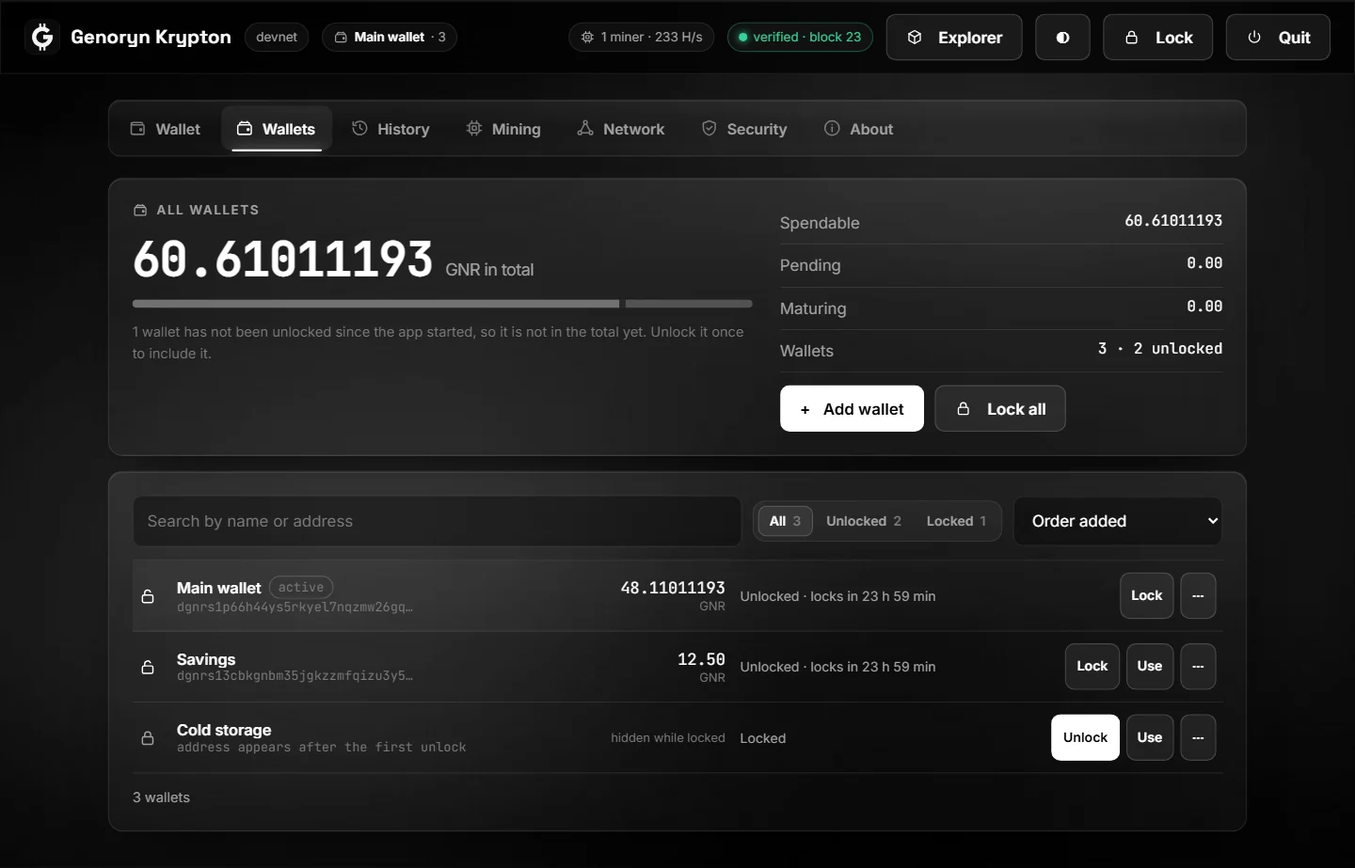
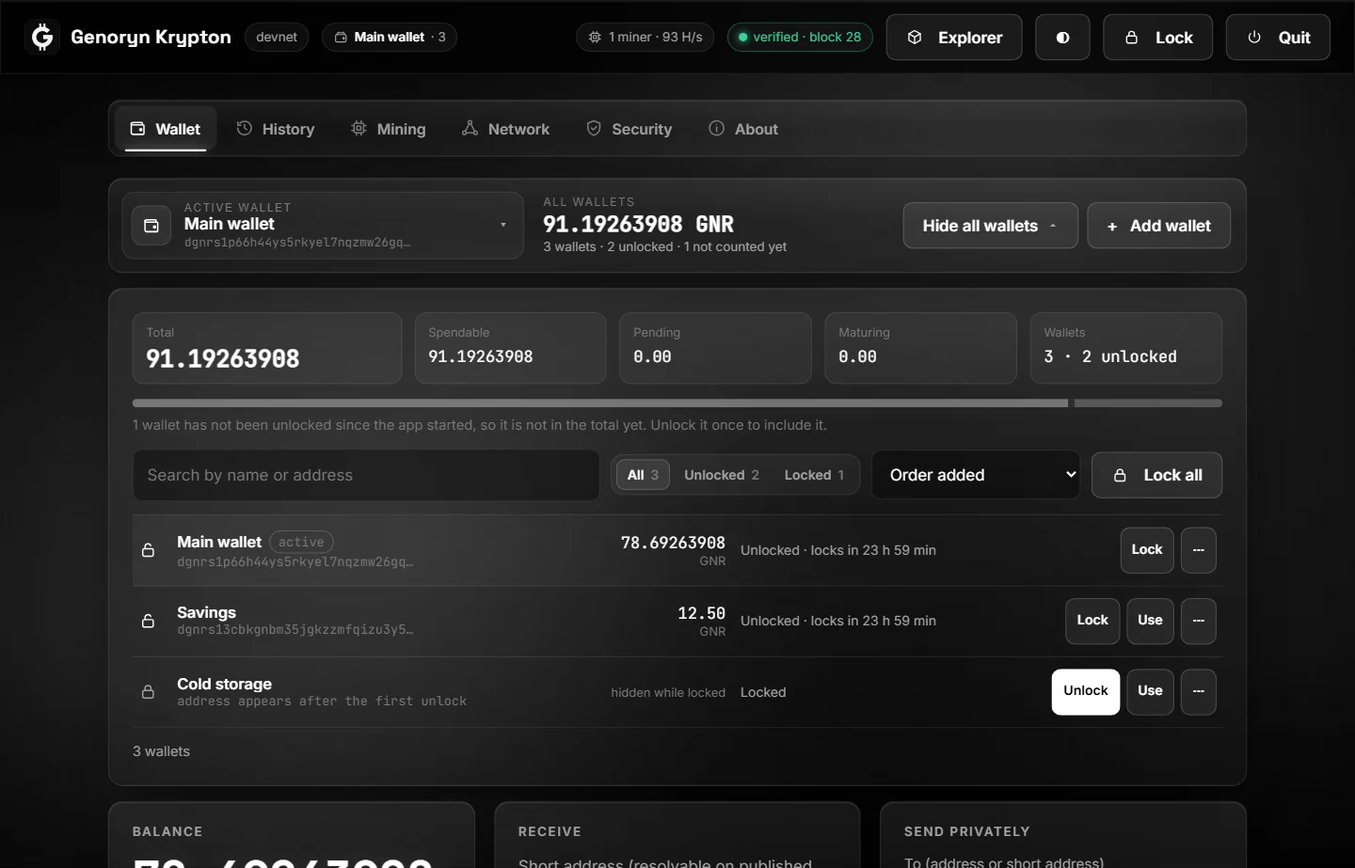
Genoryn Krypton 1.0.6: one Wallet tab: wallet selector, all wallets in one list

diff --git a/apps/krypton-wallet/src/ui.html b/apps/krypton-wallet/src/ui.html
@@ -103,7 +103,31 @@ td.amt{font-family:var(--font-mono);font-variant-numeric:tabular-nums}.amt-in{co
 .pager{display:flex;flex-wrap:wrap;align-items:center;justify-content:space-between;gap:10px;margin-top:12px;color:var(--text-secondary);font-size:13px}
 .pager .pg{display:flex;gap:4px;flex-wrap:wrap}.pager button{min-width:34px;height:34px;padding:0 9px;border-radius:9px;border:1px solid var(--line);background:var(--bg-inset);color:var(--text-secondary);font:600 13px var(--font-mono);cursor:pointer}
 .pager button.on{background:var(--text-primary);color:var(--bg-solid);border-color:var(--text-primary)}.pager button:disabled{opacity:.35;cursor:default}.pager .gap{padding:0 4px;align-self:center}
-.wtop{display:grid;grid-template-columns:1.4fr 1fr;gap:26px;align-items:start}
+.wbar{display:flex;align-items:center;gap:18px;padding:12px 14px 12px 12px;margin-bottom:14px;flex-wrap:wrap}
+.wsel{display:flex;align-items:center;gap:12px;min-width:0;flex:0 1 380px;padding:8px 14px 8px 8px;border-radius:12px;border:1px solid var(--line);background:var(--bg-inset);color:var(--text-primary);cursor:pointer;text-align:left;transition:border-color .2s,background .2s}
+.wsel:hover,.wsel[aria-expanded="true"]{border-color:var(--line-strong);background:var(--bg-raised)}
+.wsel-ic{display:inline-flex;align-items:center;justify-content:center;width:38px;height:38px;border-radius:10px;background:var(--bg-raised);border:1px solid var(--line);flex:none}
+.wsel-t{display:flex;flex-direction:column;min-width:0;flex:1}.wsel-t em{font-style:normal;font-size:11px;letter-spacing:1.2px;text-transform:uppercase;color:var(--text-tertiary)}
+.wsel-t b{font:600 15.5px var(--font-sans);overflow:hidden;text-overflow:ellipsis;white-space:nowrap}.wsel-t span{font-size:11.5px;color:var(--text-tertiary);overflow:hidden;text-overflow:ellipsis;white-space:nowrap}
+.caret{color:var(--text-secondary);font-size:12px;transition:transform .2s}[aria-expanded="true"] .caret{transform:rotate(180deg)}
+.wbar-total{display:flex;flex-direction:column;min-width:0;flex:1}.wbar-total em{font-style:normal;font-size:11px;letter-spacing:1.2px;text-transform:uppercase;color:var(--text-tertiary)}
+.wbar-total b{font:600 20px/1.2 var(--font-mono);font-variant-numeric:tabular-nums;white-space:nowrap;overflow:hidden;text-overflow:ellipsis}.wbar-total span{font-size:12px;color:var(--text-secondary)}
+.wbar-acts{display:flex;gap:8px;flex-wrap:wrap}
+.allw{margin-bottom:14px}.allw-sum{display:grid;grid-template-columns:1.4fr repeat(4,minmax(0,1fr));gap:12px}
+.allw-sum>div{display:flex;flex-direction:column;gap:3px;padding:10px 12px;border-radius:11px;background:var(--bg-inset);border:1px solid var(--line);min-width:0}
+.allw-sum em{font-style:normal;font-size:11.5px;color:var(--text-tertiary)}.allw-sum b{font:500 15px var(--font-mono);font-variant-numeric:tabular-nums;white-space:nowrap;overflow:hidden;text-overflow:ellipsis}.allw-sum>div:first-child b{font:700 22px/1.15 var(--font-mono)}
+.addp{padding:16px;margin:12px 0;border-radius:12px;border:1px solid var(--line-strong);background:var(--bg-inset)}
+.allw .wrows{max-height:min(62vh,640px);overflow-y:auto;overscroll-behavior:contain;scrollbar-width:thin}
+.switcher{position:fixed;z-index:30;width:min(380px,calc(100vw - 24px));max-height:min(72vh,620px);display:flex;flex-direction:column;padding:12px;border-radius:14px;border-color:var(--line-strong);background:color-mix(in srgb,var(--bg-solid) 96%,transparent);backdrop-filter:blur(18px);box-shadow:0 24px 60px rgba(0,0,0,.45)}
+.sw-head{display:flex;justify-content:space-between;align-items:baseline;padding:2px 4px 8px}.sw-head b{font:600 13px var(--font-sans);letter-spacing:1.2px;text-transform:uppercase;color:var(--text-secondary)}.sw-head span{font:500 13px var(--font-mono)}
+.switcher input{margin:0 0 8px}
+.sw-list{overflow-y:auto;flex:1;min-height:0;display:flex;flex-direction:column;gap:2px;scrollbar-width:thin}
+.sw-it{display:grid;grid-template-columns:18px minmax(0,1fr) auto;align-items:center;gap:10px;padding:9px 10px;border-radius:10px;border:0;background:none;color:var(--text-primary);text-align:left;cursor:pointer;width:100%}
+.sw-it:hover,.sw-it:focus-visible{background:var(--bg-inset);outline:none}.sw-it.on{background:var(--bg-raised);box-shadow:inset 0 0 0 1px var(--line-strong)}
+.sw-it .ic{width:15px;height:15px;color:var(--text-secondary)}.sw-it.on .ic{color:var(--text-primary)}
+.swn{min-width:0}.swn b{display:block;font:600 14px var(--font-sans);color:var(--text-primary);overflow:hidden;text-overflow:ellipsis;white-space:nowrap}.swn small{display:block;font:400 11.5px var(--font-mono);color:var(--text-tertiary);overflow:hidden;text-overflow:ellipsis;white-space:nowrap}
+.sw-it i{font:500 13px var(--font-mono);font-style:normal;white-space:nowrap;text-align:right}.sw-it i small{display:block;font:400 11px var(--font-sans);color:var(--text-tertiary)}
+.sw-foot{display:flex;gap:8px;padding-top:10px;margin-top:6px;border-top:1px solid var(--line)}.sw-foot .btn{flex:1;padding:8px 10px;font-size:13px}
 .add-grid{display:grid;grid-template-columns:1fr 1fr;gap:0 16px}
 .wrows{display:flex;flex-direction:column;border-top:1px solid var(--line)}
 .wrow{display:grid;grid-template-columns:22px minmax(0,1.5fr) 150px minmax(0,1.1fr) 176px;align-items:center;gap:14px;padding:11px 6px;border-bottom:1px solid var(--line);transition:background .15s}
@@ -130,6 +154,7 @@ td.amt{font-family:var(--font-mono);font-variant-numeric:tabular-nums}.amt-in{co
 .about-motto{margin:14px 0 0;font:700 13px var(--font-display);letter-spacing:2.2px;color:var(--text-primary)}
 .about-facts{display:grid;grid-template-columns:repeat(4,minmax(0,1fr));gap:12px;margin-bottom:14px}
 @media (max-width:1380px){h1 small{display:none}}
+@media (max-width:900px){.allw-sum{grid-template-columns:1fr 1fr}.allw-sum>div:first-child{grid-column:1/-1}.wsel{flex:1 1 100%}.wbar-acts{width:100%}.wbar-acts .btn{flex:1}}
 @media (max-width:900px){.wtop{grid-template-columns:1fr}.hsums,.about-facts{grid-template-columns:1fr 1fr}.wrow{grid-template-columns:22px minmax(0,1fr) auto;grid-template-areas:"i n b" "s s s" "a a a"}.wrow>.ic{grid-area:i}.wn{grid-area:n}.wb{grid-area:b}.ws{grid-area:s}.wa{grid-area:a;justify-content:flex-start}}
 @media (max-width:640px){.add-grid{grid-template-columns:1fr}.about-hero{flex-direction:column;align-items:flex-start;padding:24px}.about-hero img{width:84px;height:84px}.toolbar input[type=search]{min-width:100%}}
 .wsplit{display:flex;gap:6px;height:8px;border-radius:99px;overflow:hidden;margin:14px 0 4px;background:var(--bg-inset)}.wsplit i{display:block;height:100%;background:var(--text-secondary);opacity:.35;min-width:3px}.wsplit i:nth-child(odd){opacity:.6}
@@ -169,7 +194,7 @@ pre.mono{white-space:pre-wrap;margin:10px 0 0}
 <header class="float">
   <div class="brand"><img src="/assets/genoryn-mark-dark.svg" alt="Genoryn"><h1>Genoryn Krypton <small>wallet</small></h1></div>
   <span id="net" class="badge"></span>
-  <button id="wChip" class="badge chip-btn hidden" onclick="chipClick()" title="Manage wallets"><svg class="ic" aria-hidden="true"><use href="#i-wallets"/></svg><b id="wChipName"></b><span id="wChipCount"></span></button>
+  <button id="wChip" class="badge chip-btn hidden" aria-haspopup="dialog" onclick="chipClick()" title="Manage wallets"><svg class="ic" aria-hidden="true"><use href="#i-wallets"/></svg><b id="wChipName"></b><span id="wChipCount"></span></button>
   <span class="spacer"></span>
   <span id="netBadge" class="badge net-badge hidden" title="Estimated miners (payout addresses active in ~6 h) · network hashrate"><svg class="ic" aria-hidden="true"><use href="#i-mining"/></svg><span id="netBadgeText"></span></span>
   <span id="sync" class="badge">connecting…</span>
@@ -223,7 +248,6 @@ pre.mono{white-space:pre-wrap;margin:10px 0 0}
   <section id="app" class="hidden">
     <nav class="tabs glass" aria-label="Wallet sections">
       <button class="rail on" data-tab="wallet"><svg class="ic" aria-hidden="true"><use href="#i-wallet"/></svg><span>Wallet</span></button>
-      <button class="rail" data-tab="wallets"><svg class="ic" aria-hidden="true"><use href="#i-wallets"/></svg><span>Wallets</span></button>
       <button class="rail" data-tab="history"><svg class="ic" aria-hidden="true"><use href="#i-history"/></svg><span>History</span></button>
       <button class="rail" data-tab="mining"><svg class="ic" aria-hidden="true"><use href="#i-mining"/></svg><span>Mining</span></button>
       <button class="rail" data-tab="network"><svg class="ic" aria-hidden="true"><use href="#i-network"/></svg><span>Network</span></button>
@@ -231,6 +255,50 @@ pre.mono{white-space:pre-wrap;margin:10px 0 0}
       <button class="rail" data-tab="about"><svg class="ic" aria-hidden="true"><use href="#i-about"/></svg><span>About</span></button>
     </nav>
     <div id="tab-wallet">
+    <div class="glass wbar">
+      <button class="wsel" id="wSel" type="button" onclick="openSwitcher(this)" aria-haspopup="dialog" title="Switch wallet">
+        <span class="wsel-ic"><svg class="ic" aria-hidden="true"><use href="#i-wallet"/></svg></span>
+        <span class="wsel-t"><em>Active wallet</em><b id="wSelName">-</b><span id="wSelAddr" class="mono"></span></span>
+        <span class="caret" aria-hidden="true">▾</span>
+      </button>
+      <div class="wbar-total"><em>All wallets</em><b id="wbTotal">-</b><span id="wbCount"></span></div>
+      <div class="wbar-acts">
+        <button class="btn" id="wAllBtn" type="button" onclick="toggleAll()" aria-expanded="false">Show all wallets <span class="caret" aria-hidden="true">▾</span></button>
+        <button class="btn" type="button" onclick="toggleAll(true);toggleAdd(true)"><span aria-hidden="true">+</span>&nbsp;Add wallet</button>
+      </div>
+    </div>
+    <section id="allWallets" class="glass card allw hidden" aria-label="All wallets">
+      <div class="allw-sum">
+        <div><em>Total</em><b id="tTotal">0</b></div>
+        <div><em>Spendable</em><b id="tSpend">0</b></div>
+        <div><em>Pending</em><b id="tPend">0</b></div>
+        <div><em>Maturing</em><b id="tImm">0</b></div>
+        <div><em>Wallets</em><b id="tCount">0</b></div>
+      </div>
+      <div id="tSplit" class="wsplit" aria-hidden="true"></div>
+      <p id="tNote" class="hero-note" style="margin-top:6px"></p>
+      <div id="addPanel" class="addp hidden">
+        <h2>Add a wallet</h2>
+        <p class="muted">Each wallet has its own 24 words and its own password. Add as many as you like; the total above adds them all up.</p>
+        <div class="add-grid">
+          <div><label for="addName">Name</label><input id="addName" maxlength="40" placeholder="e.g. Savings"></div>
+          <div><label for="addPass">Password for this wallet (12+ characters)</label><input id="addPass" type="password" autocomplete="new-password"></div>
+        </div>
+        <div id="addRestore" class="hidden">
+          <label for="addWords">Recovery phrase: 24 words with their numbers (older 24-word phrases work too)</label><textarea id="addWords"></textarea>
+          <label for="addBirthday">Scan from block (0 = full history)</label><input id="addBirthday" type="number" value="0" min="0">
+        </div>
+        <div class="row-flex"><button class="btn btn-primary" id="addBtn" onclick="addWallet()">Create new wallet</button><button class="btn" id="addMode" onclick="toggleRestore()">Restore from recovery phrase</button><button class="btn" onclick="toggleAdd(false)">Cancel</button></div>
+      </div>
+      <div class="toolbar">
+        <input id="wQ" type="search" placeholder="Search by name or address" aria-label="Search wallets">
+        <div class="seg" id="wFilter" role="group" aria-label="Filter"><button type="button" data-f="all" class="on">All <em id="wnAll"></em></button><button type="button" data-f="open">Unlocked <em id="wnOpen"></em></button><button type="button" data-f="locked">Locked <em id="wnLocked"></em></button></div>
+        <select id="wSort" aria-label="Sort"><option value="added">Order added</option><option value="name">Name A–Z</option><option value="bal">Balance, highest first</option><option value="open">Unlocked first</option></select>
+        <button class="btn" type="button" onclick="lockAll()"><svg class="ic" aria-hidden="true"><use href="#i-lock"/></svg>Lock all</button>
+      </div>
+      <div class="wrows" id="wList" role="list"></div>
+      <div class="pager" id="wPager"></div>
+    </section>
     <div class="grid">
       <div class="glass card">
         <h2>Balance</h2>
@@ -286,45 +354,6 @@ pre.mono{white-space:pre-wrap;margin:10px 0 0}
         <p class="hero-note" style="margin-top:10px">Blocks you found are marked. Transfers stay shielded: only block sizes, shares and transaction counts are public.</p>
       </div>
     </section>
-    </div>
-    <div id="tab-wallets" class="hidden">
-      <div class="glass card wtop">
-        <div class="wtop-main">
-          <h2><svg class="ic" aria-hidden="true"><use href="#i-wallets"/></svg>All wallets</h2>
-          <div class="big"><span id="tTotal" class="num">0</span> <small>GNR in total</small></div>
-          <div id="tSplit" class="wsplit" aria-hidden="true"></div>
-          <p id="tNote" class="hero-note"></p>
-        </div>
-        <div class="wtop-side">
-          <div class="row">Spendable<b id="tSpend">0</b></div>
-          <div class="row">Pending<b id="tPend">0</b></div>
-          <div class="row">Maturing<b id="tImm">0</b></div>
-          <div class="row">Wallets<b id="tCount">0</b></div>
-          <div class="row-flex" style="margin-top:12px"><button class="btn btn-primary" onclick="toggleAdd()"><span aria-hidden="true">+</span>&nbsp;Add wallet</button><button class="btn" onclick="lockAll()"><svg class="ic" aria-hidden="true"><use href="#i-lock"/></svg>Lock all</button></div>
-        </div>
-      </div>
-      <div id="addPanel" class="glass card hidden" style="margin-top:14px">
-        <h2>Add a wallet</h2>
-        <p class="muted">Each wallet has its own 24 words and its own password. Add as many as you like; the total above adds them all up.</p>
-        <div class="add-grid">
-          <div><label for="addName">Name</label><input id="addName" maxlength="40" placeholder="e.g. Savings"></div>
-          <div><label for="addPass">Password for this wallet (12+ characters)</label><input id="addPass" type="password" autocomplete="new-password"></div>
-        </div>
-        <div id="addRestore" class="hidden">
-          <label for="addWords">Recovery phrase: 24 words with their numbers (older 24-word phrases work too)</label><textarea id="addWords"></textarea>
-          <label for="addBirthday">Scan from block (0 = full history)</label><input id="addBirthday" type="number" value="0" min="0">
-        </div>
-        <div class="row-flex"><button class="btn btn-primary" id="addBtn" onclick="addWallet()">Create new wallet</button><button class="btn" id="addMode" onclick="toggleRestore()">Restore from recovery phrase</button><button class="btn" onclick="toggleAdd(false)">Cancel</button></div>
-      </div>
-      <div class="glass card" style="margin-top:14px">
-        <div class="toolbar">
-          <input id="wQ" type="search" placeholder="Search by name or address" aria-label="Search wallets">
-          <div class="seg" id="wFilter" role="group" aria-label="Filter"><button type="button" data-f="all" class="on">All <em id="wnAll"></em></button><button type="button" data-f="open">Unlocked <em id="wnOpen"></em></button><button type="button" data-f="locked">Locked <em id="wnLocked"></em></button></div>
-          <select id="wSort" aria-label="Sort"><option value="added">Order added</option><option value="name">Name A–Z</option><option value="bal">Balance, highest first</option><option value="open">Unlocked first</option></select>
-        </div>
-        <div class="wrows" id="wList" role="list"></div>
-        <div class="pager" id="wPager"></div>
-      </div>
     </div>
     <div id="tab-history" class="hidden">
       <div class="hsums" id="hSums">
@@ -510,6 +539,12 @@ pre.mono{white-space:pre-wrap;margin:10px 0 0}
     </div>
   </section>
 </main>
+<div id="switcher" class="switcher glass float hidden" role="dialog" aria-label="Switch wallet">
+  <div class="sw-head"><b>Wallets</b><span id="swTotal"></span></div>
+  <input id="swQ" type="search" placeholder="Search wallets" aria-label="Search wallets">
+  <div id="swList" class="sw-list" role="listbox"></div>
+  <div class="sw-foot"><button class="btn" type="button" onclick="closeSwitcher();toggleAll(true)">Show all wallets</button><button class="btn" type="button" onclick="closeSwitcher();toggleAll(true);toggleAdd(true)"><span aria-hidden="true">+</span>&nbsp;Add</button></div>
+</div>
 <div id="toast" class="toast float hidden" role="status" aria-live="polite"></div>
 <script src="/assets/fx.js" data-base="/assets/"></script>
 <script src="/assets/charts.js"></script>
@@ -534,9 +569,9 @@ async function afterAdd(r, name, activate){
   await refresh(); loadWallets();
 }
 function startAdding(){ adding=true; const n=(S.wallet_count||0)+1; $('newName').value='Wallet '+n; refresh(); }
-function chipClick(){ if(S.unlocked) goTab('wallets'); else { show('uPick'); $('uSel').focus(); } }
+function chipClick(){ if(S.unlocked) openSwitcher($('wChip')); else { show('uPick'); $('uSel').focus(); } }
 function dur(s){ if(s==null) return ''; const h=Math.floor(s/3600), m=Math.floor(s%3600/60); return h?h+' h '+m+' min':m?m+' min':'less than a minute'; }
-async function loadWallets(){ try{ W=await api('/api/wallets'); renderWallets(); }catch(e){} }
+async function loadWallets(){ try{ W=await api('/api/wallets'); renderBar(); if(!$('allWallets').classList.contains('hidden')) renderWallets(); }catch(e){} }
 function renderWallets(){
   if(!W) return;
   const t=W.total||{}; $('tTotal').textContent=gnr(t.total); $('tSpend').textContent=gnr(t.spendable); $('tPend').textContent=gnr(t.pending); $('tImm').textContent=gnr(t.immature);
@@ -566,7 +601,42 @@ function renderWallets(){
   if($('wpw')){ $('wpw').value=keep; if(hadFocus) $('wpw').focus(); }
   pager($('wPager'), WV.page, pages, list.length, WV.per, p=>{ WV.page=p; renderWallets(); }, 'wallets');
 }
-const WV={q:'', f:'all', sort:'added', page:0, per:20, unlocking:null, menu:null};
+const WV={q:'', f:'all', sort:'added', page:0, per:Infinity, unlocking:null, menu:null, sq:''};
+function renderBar(){
+  if(!W) return; const t=W.total||{}, n=W.wallets.length, open=W.wallets.filter(w=>w.unlocked).length;
+  $('wbTotal').textContent=gnr(t.total)+' GNR'; $('wbCount').textContent=n+' wallet'+(n===1?'':'s')+' · '+open+' unlocked'+(W.unknown?' · '+W.unknown+' not counted yet':'');
+  $('swTotal').textContent=gnr(t.total)+' GNR';
+  if(!$('switcher').classList.contains('hidden')) renderSwitcher();
+}
+function toggleAll(on){ const p=$('allWallets'), show_=on===undefined?p.classList.contains('hidden'):on;
+  p.classList.toggle('hidden',!show_); $('wAllBtn').setAttribute('aria-expanded',String(show_)); $('wAllBtn').firstChild.textContent=show_?'Hide all wallets ':'Show all wallets ';
+  try{ localStorage.setItem('gk-allw', show_?'1':'0'); }catch(e){}
+  if(show_){ loadWallets(); if(on===true) p.scrollIntoView({block:'nearest', behavior:'smooth'}); } }
+let swAnchor=null, swOpened=0;
+function openSwitcher(anchor){
+  const s=$('switcher'); if(!s.classList.contains('hidden')&&swAnchor===anchor){ closeSwitcher(); return; }
+  swAnchor=anchor; swOpened=Date.now(); s.classList.remove('hidden'); document.querySelectorAll('[aria-haspopup="dialog"]').forEach(x=>x.setAttribute('aria-expanded',String(x===anchor)));
+  const r=anchor.getBoundingClientRect(), w=s.offsetWidth, top=Math.min(r.bottom+8, innerHeight-260);
+  s.style.top=top+'px'; s.style.left=Math.max(12, Math.min(r.left, innerWidth-w-12))+'px'; s.style.maxHeight=Math.min(620, innerHeight-top-12)+'px';
+  WV.sq=''; $('swQ').value=''; renderSwitcher(); loadWallets(); if((W&&W.wallets.length>6)) $('swQ').focus();
+}
+function closeSwitcher(){ $('switcher').classList.add('hidden'); document.querySelectorAll('[aria-haspopup="dialog"]').forEach(x=>x.setAttribute('aria-expanded','false')); swAnchor=null; }
+function renderSwitcher(){
+  const ws=(W?W.wallets:(S.wallet_names||[]).map(w=>({...w, active:w.id===(S.active||{}).id}))), q=WV.sq.toLowerCase();
+  const list=ws.filter(w=>!q||w.name.toLowerCase().includes(q)||(w.short||'').toLowerCase().includes(q));
+  $('swList').innerHTML=list.map(w=>`<button type="button" class="sw-it${w.active?' on':''}" role="option" aria-selected="${!!w.active}" onclick="pickWallet('${esc(w.id)}')">
+      <svg class="ic" aria-hidden="true"><use href="#i-${w.unlocked?'unlock':'lock'}"/></svg>
+      <span class="swn"><b>${esc(w.name)}</b><small>${w.short?esc(w.short.slice(0,26))+'…':'address after first unlock'}</small></span>
+      <i>${w.balance?gnr(w.balance.total):'—'}<small>${w.active?'active':(w.unlocked?'unlocked':'locked')}</small></i></button>`).join('')||'<div class="wempty">No wallet matches.</div>';
+}
+async function pickWallet(id){ closeSwitcher(); if(S.active&&S.active.id===id) return; await useWallet(id); }
+$('swQ').oninput=e=>{ WV.sq=e.target.value.trim(); renderSwitcher(); };
+$('swQ').onkeydown=e=>{ if(e.key==='Escape') closeSwitcher(); if(e.key==='Enter'){ const f=$('swList').querySelector('.sw-it'); if(f) f.click(); } };
+document.addEventListener('keydown', e=>{ if(e.key==='Escape'&&!$('switcher').classList.contains('hidden')) closeSwitcher(); });
+document.addEventListener('mousedown', e=>{ const s=$('switcher'); if(!s.classList.contains('hidden')&&!s.contains(e.target)&&!(swAnchor&&swAnchor.contains(e.target))) closeSwitcher(); });
+addEventListener('resize', ()=>closeSwitcher());
+addEventListener('scroll', ()=>{ if(swAnchor&&Date.now()-swOpened>600) closeSwitcher(); }, {passive:true});
+try{ if(localStorage.getItem('gk-allw')==='1') setTimeout(()=>toggleAll(true),0); }catch(e){}
 document.addEventListener('click', e=>{ if(WV.menu&&!e.target.closest('.wmenu')){ WV.menu=null; renderWallets(); } });
 function toggleAdd(on){ const p=$('addPanel'); const show_=on===undefined?p.classList.contains('hidden'):on; p.classList.toggle('hidden',!show_); if(show_) $('addName').focus(); }
 /* Shared pager: « ‹ 1 … 4 5 6 … 12 › » plus "21–40 of 230". */
@@ -741,8 +811,8 @@ async function saveSettings(){ const mode=[...document.getElementsByName('mode')
 async function reveal(){ try{ const r = await api('/api/reveal',{password:$('revealPass').value}); words('revealWords', r.mnemonic); $('revealPass').value=''; setTimeout(()=>$('revealWords').innerHTML='', 60000); }catch(e){ toast(e.message,true) } }
 async function quitApp(){ if(!confirm('Quit Genoryn Krypton? The miner and your own node stop too.')) return; try{ await api('/api/quit',{}); }catch(e){} document.querySelector('main').innerHTML='<div class="center glass card"><h2>Closed</h2><p class="muted">Genoryn Krypton has stopped. You can close this tab and start it again from the desktop icon.</p></div>'; }
 function copy(id){ navigator.clipboard.writeText(id==='full'?S.address:S.short); toast('Copied'); }
-const TABS=['wallet','wallets','history','mining','network','security','about'];
-function goTab(t){ document.querySelectorAll('nav.tabs button').forEach(x=>x.classList.toggle('on', x.dataset.tab===t)); TABS.forEach(x=>hide('tab-'+x)); show('tab-'+t); if(t==='network'){ initNetDash(); loadNetExtras(); } if(t==='wallets') loadWallets(); if(t==='history') loadHistory(); }
+const TABS=['wallet','history','mining','network','security','about'];
+function goTab(t){ closeSwitcher(); document.querySelectorAll('nav.tabs button').forEach(x=>x.classList.toggle('on', x.dataset.tab===t)); TABS.forEach(x=>hide('tab-'+x)); show('tab-'+t); if(t==='network'){ initNetDash(); loadNetExtras(); } if(t==='history') loadHistory(); }
 document.querySelectorAll('nav.tabs button').forEach(b=>b.onclick=()=>goTab(b.dataset.tab));
 function copyText(t){ navigator.clipboard.writeText(t); toast('Copied'); }
 async function makeProof(txid){ try{ const r=await api('/api/proof',{txid}); $('proofOut').textContent=r.proof; show('proofOut'); show('proofBtns'); copyText(r.proof); }catch(e){ toast(e.message,true) } }
@@ -777,7 +847,8 @@ async function refresh(){
   if(!S.unlocked){ $('uName').textContent=act.name?'“'+act.name+'”':''; const ws=S.wallet_names||[];
     if(ws.length>1){ if(document.activeElement!==$('uSel')) $('uSel').innerHTML=ws.map(w=>`<option value="${esc(w.id)}"${w.id===act.id?' selected':''}>${esc(w.name)}${w.unlocked?' (unlocked)':''}</option>`).join(''); show('uPick'); } else hide('uPick');
     show('unlockBox'); return; }
-  show('app'); if(!$('tab-wallets').classList.contains('hidden')) loadWallets();
+  show('app'); loadWallets();
+  $('wSelName').textContent=act.name||'Wallet'; $('wSelAddr').textContent=S.short?S.short.slice(0,30)+'…':'';
   initOverview(); checkPublished();
   if(OV.stats){ renderOvKpis(); const k=(S.balance&&S.balance.total)+'|'+(S.history||[]).length+'|'+S.short; if(k!==OV.balKey){ OV.balKey=k; renderOvBalance(); } }
   if(OV.blocks.length && S.owner!==OV.owner){ OV.owner=S.owner; renderOvBlocks(); }

diff --git a/website/download.html b/website/download.html
@@ -18,8 +18,8 @@
   <div class="page-head"><span class="eyebrow">Releases</span><h1 class="h2 glow">Download Genoryn Krypton</h1>
     <p class="lead">One package contains the wallet (<code>krypton-wallet</code>), the full node (<code>kryptond</code>), the miner (<code>krypton-miner</code>) and the command-line wallet.</p></div>
   <div class="plans" style="margin-bottom:30px">
-    <article class="glass plan rec"><span class="pill">Recommended</span><h3>Windows</h3><p class="muted">Windows 10 and 11, x64. Animated installer, desktop and Start-menu shortcuts, own app window. GPU mining via CUDA and OpenCL.</p><ul><li>No administrator rights needed</li><li>Uninstall from Windows Settings</li><li>Your wallets are never touched by updates</li></ul><a class="btn btn-primary" href="https://github.com/genoryn/genoryn/releases/latest/download/GenorynKrypton-1.0.5-Windows-x64-Setup.exe">Download installer (.exe)</a><a class="btn" style="margin-top:10px" href="https://github.com/genoryn/genoryn/releases/latest/download/genoryn-krypton-1.0.5-windows-x64-portable.zip">Portable .zip</a></article>
-    <article class="glass plan"><h3>Linux</h3><p class="muted">x86-64, Ubuntu 24.04 / Debian 13 or newer (glibc 2.39+). Ideal for servers and nodes.</p><ul><li><code>sudo apt install ./genoryn-krypton_1.0.5_amd64.deb</code></li><li>Desktop entry and systemd units included</li></ul><a class="btn" href="https://github.com/genoryn/genoryn/releases/latest/download/genoryn-krypton_1.0.5_amd64.deb">Download .deb</a><a class="btn" style="margin-top:10px" href="https://github.com/genoryn/genoryn/releases/latest/download/genoryn-krypton-1.0.5-linux-x64.tar.gz">Download .tar.gz</a></article>
+    <article class="glass plan rec"><span class="pill">Recommended</span><h3>Windows</h3><p class="muted">Windows 10 and 11, x64. Animated installer, desktop and Start-menu shortcuts, own app window. GPU mining via CUDA and OpenCL.</p><ul><li>No administrator rights needed</li><li>Uninstall from Windows Settings</li><li>Your wallets are never touched by updates</li></ul><a class="btn btn-primary" href="https://github.com/genoryn/genoryn/releases/latest/download/GenorynKrypton-1.0.6-Windows-x64-Setup.exe">Download installer (.exe)</a><a class="btn" style="margin-top:10px" href="https://github.com/genoryn/genoryn/releases/latest/download/genoryn-krypton-1.0.6-windows-x64-portable.zip">Portable .zip</a></article>
+    <article class="glass plan"><h3>Linux</h3><p class="muted">x86-64, Ubuntu 24.04 / Debian 13 or newer (glibc 2.39+). Ideal for servers and nodes.</p><ul><li><code>sudo apt install ./genoryn-krypton_1.0.6_amd64.deb</code></li><li>Desktop entry and systemd units included</li></ul><a class="btn" href="https://github.com/genoryn/genoryn/releases/latest/download/genoryn-krypton_1.0.6_amd64.deb">Download .deb</a><a class="btn" style="margin-top:10px" href="https://github.com/genoryn/genoryn/releases/latest/download/genoryn-krypton-1.0.6-linux-x64.tar.gz">Download .tar.gz</a></article>
     <article class="glass plan"><h3>From source</h3><p class="muted">Rust 1.88+. Reproducible and auditable.</p><ul><li><code>cargo build --release</code></li><li>All releases: GitHub</li></ul><a class="btn" href="https://github.com/genoryn/genoryn">Source code</a><a class="btn" style="margin-top:10px" href="https://github.com/genoryn/genoryn/releases">All releases</a></article>
   </div>
   <div class="prose">

diff --git a/website/docs.html b/website/docs.html
@@ -99,7 +99,7 @@ krypton-wallet-cli --node https://genoryn.io send gnrs1... 2.5 --memo "invoice 4
           <li><b>Background mining</b>: while the miner runs, closing the window keeps the wallet, node and miner running; the desktop icon opens it again and <b>Quit</b> stops everything.</li>
           <li><b>Recovery</b>: 24 words with their numbers (384-bit entropy, checksummed) restore everything, and older 24-word phrases restore too; the wallet file is encrypted with Argon2id (256 MiB) and XChaCha20-Poly1305.</li>
           <li><b>History</b>: paged (15 to 100 entries per page), with filters for received, sent, mining and pending, search by memo, txid, address or block, and totals.</li>
-          <li><b>Several wallets</b>: the Wallets tab holds any number of wallets (a paged list with search, filters and sorting), each with its own 24 words and password, and shows their total. An unlocked wallet stays open for 24 hours, then locks itself and asks for its password again; the miner keeps running. Removing a wallet moves its file to a <code>removed</code> folder, and its 24 words bring it back.</li>
+          <li><b>Several wallets</b>: any number of wallets, each with its own 24 words and password. The selector at the top of the Wallet tab (or in the header) switches between them; <b>Show all wallets</b> expands them all in one list with search, filters, sorting and their total. An unlocked wallet stays open for 24 hours, then locks itself and asks for its password again; the miner keeps running. Removing a wallet moves its file to a <code>removed</code> folder, and its 24 words bring it back.</li>
         </ul>
         <p>A transaction spends at most two notes. When a payment needs more, the wallet merges notes automatically in parallel rounds (one block per round) and then pays.</p>
       </section>

diff --git a/website/index.html b/website/index.html
@@ -97,7 +97,7 @@
     <div class="wrap">
       <div class="section-head"><div class="pool" aria-hidden="true"></div><span class="eyebrow">The wallet</span><h2 id="shots-h" class="h2 glow">One app: wallet, node and miner.</h2></div>
       <div class="shots">
-        <figure class="glass shot reveal" style="margin:0"><img loading="lazy" src="/assets/shots/wallets-720.webp" width="1440" height="923" alt="Wallets tab: several wallets, each with its own password, and their total balance"><figcaption>Several wallets, one total</figcaption></figure>
+        <figure class="glass shot reveal" style="margin:0"><img loading="lazy" src="/assets/shots/wallets-720.webp" width="1440" height="923" alt="All wallets expanded on the Wallet tab: several wallets, each with its own password, and their total balance"><figcaption>Several wallets, one total</figcaption></figure>
         <figure class="glass shot reveal" style="margin:0"><img loading="lazy" src="/assets/shots/mining-720.webp" width="1440" height="923" alt="Mining tab with hashrate, share of the network, expected earnings and accruing rewards"><figcaption>Proportional mining on GPU or CPU</figcaption></figure>
         <figure class="glass shot reveal" style="margin:0"><img loading="lazy" src="/assets/shots/proofs-720.webp" width="1440" height="923" alt="History with a payment proof and its verification"><figcaption>Payment proofs, verified on chain</figcaption></figure>
       </div>

diff --git a/website/seo.py b/website/seo.py
@@ -5,7 +5,7 @@ import json
 
 SITE = "https://genoryn.io"
 NAME = "Genoryn Krypton"
-VERSION = "1.0.5"
+VERSION = "1.0.6"
 OG = SITE + "/assets/og.png"
 TODAY = datetime.date.today().isoformat()
 KEYWORDS = ("Genoryn Krypton, GNR, quantum-resistant cryptocurrency, post-quantum crypto, private cryptocurrency, "

diff --git a/README.md b/README.md
@@ -25,7 +25,7 @@
 <table>
   <tr>
     <td width="50%"><img src="docs/images/wallet.webp" alt="Wallet overview: network hashrate, estimated miners, mining share, rewards and live charts"></td>
-    <td width="50%"><img src="docs/images/wallets.webp" alt="Wallets tab: several wallets with their own passwords and one total"></td>
+    <td width="50%"><img src="docs/images/wallets.webp" alt="All wallets expanded on the Wallet tab: several wallets with their own passwords and one total"></td>
   </tr>
   <tr>
     <td align="center"><sub>Live network and mining overview</sub></td>
@@ -175,8 +175,9 @@ it, so a node can never substitute another recipient.
 
 ## Several wallets
 
-The desktop wallet's **Wallets** tab holds as many wallets as you like, each with its own
-24 words and its own password, and adds their balances into one total. A wallet you unlock
+The desktop wallet holds as many wallets as you like, each with its own 24 words and its own
+password. The selector at the top of the **Wallet** tab switches between them, and **Show all
+wallets** expands them all in one list (search, filters, sorting) with one total. A wallet you unlock
 stays open for 24 hours, then locks itself and asks for its password again; locking never
 stops the miner. Removing a wallet only moves its file to a `removed` folder, and its
 24 words bring it back at any time.
